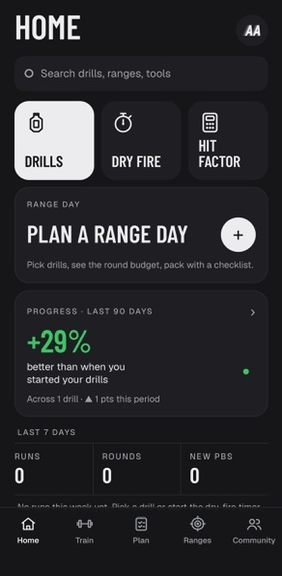
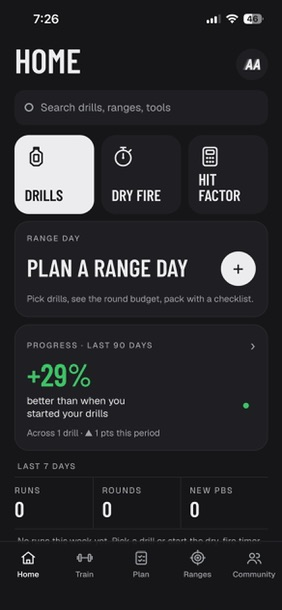
Put Train to the right of Home, restore Home's real status bar
- screenshot-home.png is now the original uncropped capture (real time,
  signal, wifi and battery), matching how Train is already shown
- swapped which phone is front vs. behind: Home is now the faded one on
  the left, Train is full-opacity on the right, pushed further right
  (left: 200px -> 260px)
- mobile still shows Home only, now tagged independently (shot-home /
  shot-train) so the front/behind swap doesn't change which one mobile
  picks
- unified .phone's aspect-ratio to 282/610 since both screenshots are
  now uncropped and share the same ratio

Claude-Session: https://claude.ai/code/session_01J2SLcV3QM6k2fK3cQ9wo5G

diff --git a/styles.css b/styles.css
@@ -194,7 +194,7 @@ a { color: inherit; text-decoration: none; overflow-wrap: anywhere; }
   display: block;
   box-sizing: border-box;
   width: 240px;
-  aspect-ratio: 282 / 576;
+  aspect-ratio: 282 / 610;
   border-radius: 42px;
   background: #0b0b0c;
   border: 1px solid #2e2e33;
@@ -234,11 +234,10 @@ a { color: inherit; text-decoration: none; overflow-wrap: anywhere; }
   opacity: .5;
   transform: scale(.9);
   transform-origin: top left;
-  aspect-ratio: 282 / 610;
 }
 
 .hero-art .front {
-  left: 200px;
+  left: 260px;
   top: 0;
 }
 
@@ -568,8 +567,8 @@ footer .links a:hover { color: var(--ink); }
   .hero-copy { align-items: center; padding-top: 0; }
   .hero p { max-width: 480px; }
   .hero-art { margin-top: 32px; height: auto; }
-  .hero-art .phone.front { position: static; margin: 0 auto; }
-  .hero-art .phone.behind { display: none; }
+  .hero-art .phone.shot-home { position: static; margin: 0 auto; }
+  .hero-art .phone.shot-train { display: none; }
 
   .features {
     grid-template-columns: repeat(2, minmax(0, 1fr));

diff --git a/index.html b/index.html
@@ -45,11 +45,11 @@
     </div>
   </div>
   <div class="hero-art" aria-hidden="true">
-    <div class="phone behind">
-      <img src="assets/screenshot-train.png" alt="" onerror="this.closest('.phone').style.display='none'">
-    </div>
-    <div class="phone front">
+    <div class="phone behind shot-home">
       <img src="assets/screenshot-home.png" alt="" onerror="this.closest('.phone').style.display='none'">
+    </div>
+    <div class="phone front shot-train">
+      <img src="assets/screenshot-train.png" alt="" onerror="this.closest('.phone').style.display='none'">
     </div>
   </div>
 </section>
